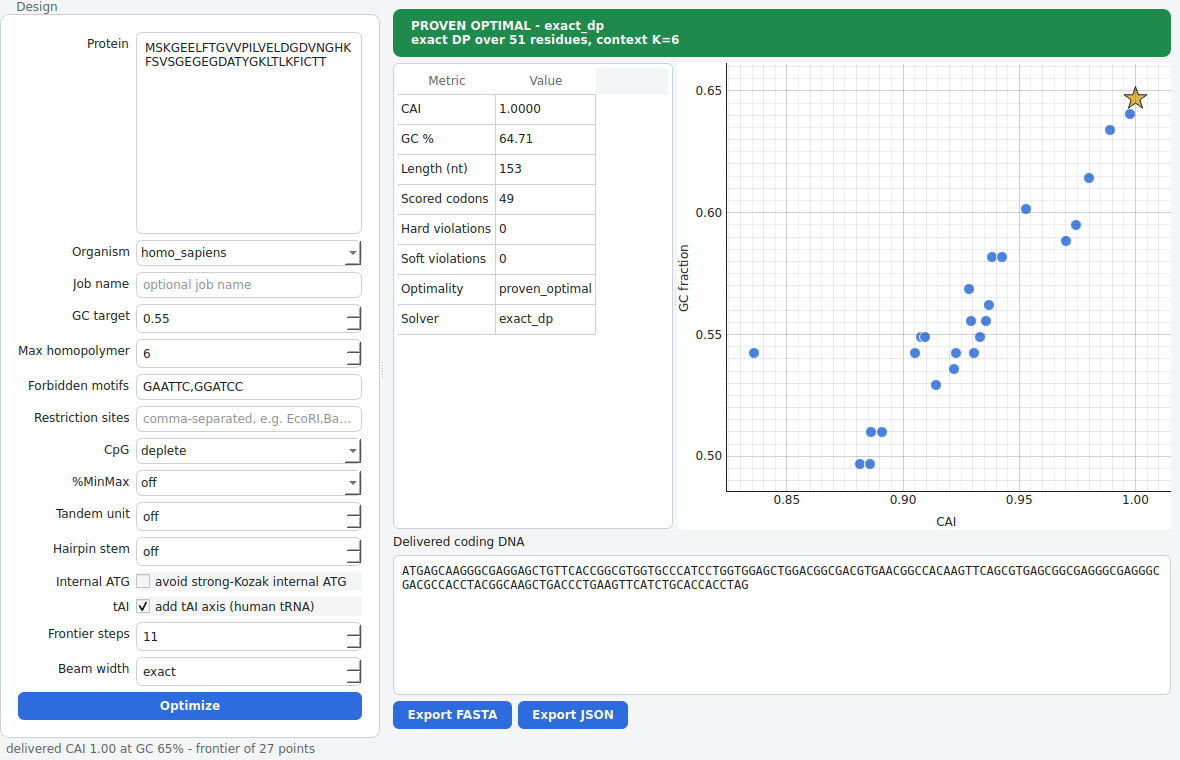
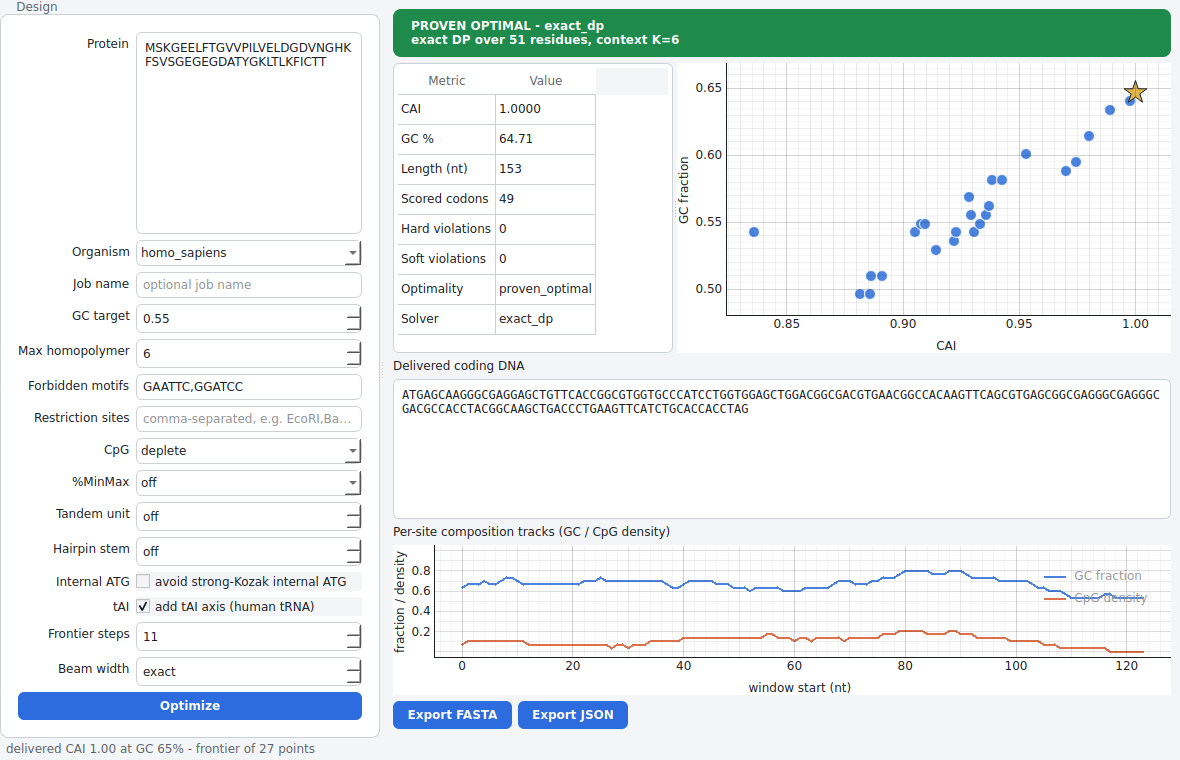
app: plot per-site GC/CpG tracks in BT4 Studio
Completes the CLAUDE.md 6.6 per-site risk tracks end to end: below the delivered
sequence, BT4 Studio now plots the honest sliding-window GC-fraction and
CpG-density tracks (via api.tracks) for the delivered coding DNA, sharing a 0-1
y-axis with a legend and theme-aware styling. These are reporting profiles
recomputed from the sequence, never solver outputs; %MinMax (a different scale)
stays available via api.tracks / bt4 tracks. Refreshes the README screenshot to
show the tracks panel.

529 passed, 1 skipped; app smoke test green.

Claude-Session: https://claude.ai/code/session_01TJgbf6JYqBZHzEcxxpv8s4

diff --git a/src/bt4/app/studio.py b/src/bt4/app/studio.py
@@ -230,6 +230,15 @@ class StudioWindow(QtWidgets.QMainWindow):
         seq_label.setBuddy(self.sequence_view)
         layout.addWidget(self.sequence_view)
 
+        tracks_label = QtWidgets.QLabel("Per-site composition tracks (GC / CpG density)")
+        layout.addWidget(tracks_label)
+        self.tracks_plot = pg.PlotWidget()
+        self.tracks_plot.setMaximumHeight(150)
+        self.tracks_plot.setAccessibleName("Per-site composition tracks: GC and CpG density")
+        tracks_label.setBuddy(self.tracks_plot)
+        self._style_tracks_plot()
+        layout.addWidget(self.tracks_plot)
+
         exports = QtWidgets.QHBoxLayout()
         self.export_fasta_btn = QtWidgets.QPushButton("Export FASTA")
         self.export_fasta_btn.setAccessibleName("Export FASTA")
@@ -257,6 +266,22 @@ class StudioWindow(QtWidgets.QMainWindow):
             axis.setPen(fg)
             axis.setTextPen(fg)
             # Show raw CAI / GC-fraction values, not a rescaled "x0.001" SI prefix.
+            axis.enableAutoSIPrefix(False)
+
+    def _style_tracks_plot(self) -> None:
+        """Apply theme-aware colours and axis labels to the per-site tracks plot."""
+        bg = "#242832" if self._dark else "#ffffff"
+        fg = "#e6e9ed" if self._dark else "#1b1f24"
+        self.tracks_plot.setBackground(bg)
+        self.tracks_plot.setLabel("bottom", "window start (nt)")
+        self.tracks_plot.setLabel("left", "fraction / density")
+        self.tracks_plot.showGrid(x=True, y=True, alpha=0.2)
+        self.tracks_plot.addLegend(offset=(-10, 10))
+        self.tracks_plot.setYRange(0.0, 1.0)
+        for edge in ("bottom", "left"):
+            axis = self.tracks_plot.getAxis(edge)
+            axis.setPen(fg)
+            axis.setTextPen(fg)
             axis.enableAutoSIPrefix(False)
 
     def _set_tab_order(self) -> None:
@@ -395,6 +420,7 @@ class StudioWindow(QtWidgets.QMainWindow):
         self.metrics_table.setRowCount(0)
         self.sequence_view.setPlainText("")
         self.plot.clear()
+        self.tracks_plot.clear()
         self.export_fasta_btn.setEnabled(False)
         self.export_json_btn.setEnabled(False)
 
@@ -412,6 +438,7 @@ class StudioWindow(QtWidgets.QMainWindow):
         self._render_metrics(delivered)
         self.sequence_view.setPlainText(delivered.dna)
         self._render_frontier(result)
+        self._render_tracks(delivered)
 
         self.export_fasta_btn.setEnabled(True)
         self.export_json_btn.setEnabled(True)
@@ -479,6 +506,37 @@ class StudioWindow(QtWidgets.QMainWindow):
                 symbolSize=24,
                 symbolBrush=pg.mkBrush("#e0b64a"),
                 symbolPen=pg.mkPen("#1b1f24"),
+            )
+
+    def _render_tracks(self, delivered: api.Result) -> None:
+        """Plot the delivered sequence's per-site GC and CpG-density tracks.
+
+        Honest reporting profiles (``api.tracks``): each point is a sliding-window
+        statistic recomputed from the DNA, never a solver output. Both tracks are
+        fraction-scaled (0-1), so they share the y-axis; %MinMax (a different
+        scale) stays available via ``api.tracks`` / ``bt4 tracks``.
+        """
+        self.tracks_plot.clear()
+        organism = self.organism_combo.currentText()
+        try:
+            tracks = api.tracks(delivered.dna, organism, nt_window=30)
+        except ValueError:
+            return
+        gc = tracks.get("gc_fraction")
+        cpg = tracks.get("cpg_density")
+        if gc is not None and gc.values:
+            self.tracks_plot.plot(
+                list(range(len(gc.values))),
+                list(gc.values),
+                pen=pg.mkPen("#4a83e0", width=2),
+                name="GC fraction",
+            )
+        if cpg is not None and cpg.values:
+            self.tracks_plot.plot(
+                list(range(len(cpg.values))),
+                list(cpg.values),
+                pen=pg.mkPen("#e0724a", width=2),
+                name="CpG density",
             )
 
     # ---- export -----------------------------------------------------------
